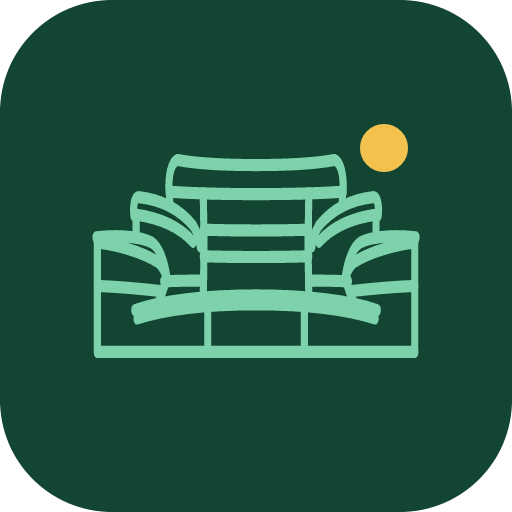
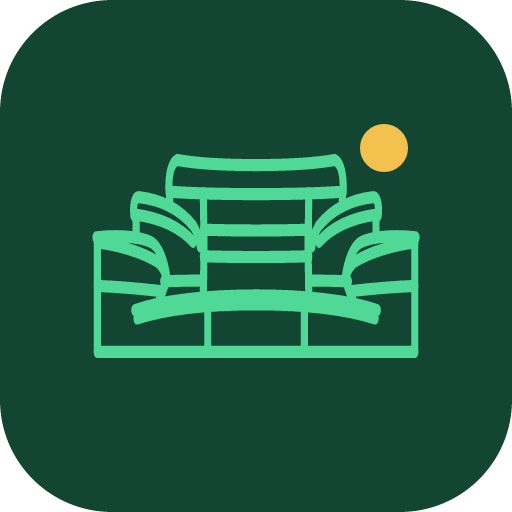
feat(core): 단축키 표시(Primer 방식 kbd, ? 단축키 창), 탭 아이콘 선 정리, 사이드바 아이콘 배경 없앰
사용자 요청: "단축키 아이콘 어떻게 하는지 github 검색", "1을 2처럼"(참고 아이콘), "아이콘 배경색을 배경색이랑 동일하게".
GitHub Primer KeybindingHint를 참고해 검색칸 /, 원문 열기 Enter, 사이드바 단축키 ?, 단축키 창을 만들고 문장형 안내를 지웠다.
탭과 사이드바 SVG는 단순화한 선을 1px로, 다크 선은 맑은 초록. 사이드바는 배경 없는 선(currentColor). 그림 본문 표시 문구, 내 공지 판단 수정 포함.
검증: vite build 통과, 1536px 다크와 라이트, 단축키 창, 16과 32px 탭 아이콘 캡처 확인.

Changed region(s): [[0.1562, 0.2812, 0.8438, 0.7188]]

diff --git a/web/src/notice-app.ts b/web/src/notice-app.ts
@@ -47,6 +47,15 @@ function applyTheme(theme: Theme) {
   else document.documentElement.dataset.theme = theme;
 }
 
+// 단축키 표시(Primer KeybindingHint 방식: 키 하나에 kbd 하나, 사방 1px 테두리). 화면 낭독기에는 aria-keyshortcuts로 알린다.
+const kbd = (...keys: string[]) => html`<span class="kbd-group" aria-hidden="true">${keys.map((k) => html`<kbd class="kbd">${k}</kbd>`)}</span>`;
+
+const SHORTCUTS: { group: string; items: [string, string[]][] }[] = [
+  { group: '목록', items: [['다음 공지', ['J']], ['이전 공지', ['K']], ['원문 열기', ['Enter']], ['상세 칸 닫기', ['Esc']]] },
+  { group: '이동', items: [['내 공지', ['1']], ['마감 임박', ['2']], ['전체', ['3']], ['검색', ['/']]] },
+  { group: '그 밖', items: [['새로고침', ['R']], ['단축키 보기', ['?']]] },
+];
+
 const icon = (name: IconName) => html`<svg class="i" aria-hidden="true"><use href="icons/sprite.svg#${name}"></use></svg>`;
 const gearIcon = html`<svg class="i" aria-hidden="true" viewBox="0 0 24 24"><circle cx="12" cy="12" r="3"/>
   <path d="M19.4 15a1.7 1.7 0 0 0 .3 1.8l.1.1a2 2 0 1 1-2.8 2.8l-.1-.1a1.7 1.7 0 0 0-1.8-.3 1.7 1.7 0 0 0-1 1.5V21a2 2 0 1 1-4 0v-.1a1.7 1.7 0 0 0-1.1-1.5 1.7 1.7 0 0 0-1.8.3l-.1.1a2 2 0 1 1-2.8-2.8l.1-.1a1.7 1.7 0 0 0 .3-1.8 1.7 1.7 0 0 0-1.5-1H3a2 2 0 1 1 0-4h.1a1.7 1.7 0 0 0 1.5-1.1 1.7 1.7 0 0 0-.3-1.8l-.1-.1a2 2 0 1 1 2.8-2.8l.1.1a1.7 1.7 0 0 0 1.8.3H9a1.7 1.7 0 0 0 1-1.5V3a2 2 0 1 1 4 0v.1a1.7 1.7 0 0 0 1 1.5 1.7 1.7 0 0 0 1.8-.3l.1-.1a2 2 0 1 1 2.8 2.8l-.1.1a1.7 1.7 0 0 0-.3 1.8V9a1.7 1.7 0 0 0 1.5 1H21a2 2 0 1 1 0 4h-.1a1.7 1.7 0 0 0-1.5 1z"/></svg>`;
@@ -57,7 +66,7 @@ export class NoticeApp extends LitElement {
     view: { state: true }, board: { state: true }, keyword: { state: true }, keywords: { state: true }, query: { state: true },
     loading: { state: true }, failed: { state: true }, selectedId: { state: true }, install: { state: true },
     installHidden: { state: true }, toast: { state: true }, isWide: { state: true }, theme: { state: true },
-    detailOpen: { state: true }, openedId: { state: true },
+    detailOpen: { state: true }, openedId: { state: true }, shortcutsOpen: { state: true },
   };
 
   notices: Notice[] = [];
@@ -82,6 +91,7 @@ export class NoticeApp extends LitElement {
   detailOpen = remember('detail') !== '0';
   // 휴대폰에서 앱 안 상세 화면으로 연 글. 뒤로 가기(history)로 닫는다.
   openedId: string | null = null;
+  shortcutsOpen = false;
   // 글별 본문(D-013). 'loading'이면 받는 중, null이면 아직 서버가 받지 않은 글.
   private bodies = new Map<string, NoticeBody | null | 'loading'>();
   private toastTimer = 0;
@@ -216,7 +226,8 @@ export class NoticeApp extends LitElement {
     const target = event.target as Element | null;
     if (event.key === 'Escape' && target instanceof HTMLInputElement) { target.blur(); return; }
     if (target?.closest('input, textarea, select') || event.metaKey || event.ctrlKey || event.altKey) return;
-    if (this.view === 'settings') return;
+    if (event.key === '?') { event.preventDefault(); this.shortcutsOpen = true; return; }
+    if (this.view === 'settings' || this.shortcutsOpen) return;
     if (event.key === 'Escape' && this.isWide && this.detailOpen) { this.setDetail(false); return; }
     // 단추나 링크에 포커스가 있으면 Enter는 그 요소의 기본 동작에 맡긴다.
     if (event.key === 'Enter' && target?.closest(INTERACTIVE)) return;
@@ -261,6 +272,9 @@ export class NoticeApp extends LitElement {
   }
 
   updated() {
+    // 단축키 창은 네이티브 dialog로 연다(포커스 가두기와 Esc 닫기를 브라우저가 맡는다).
+    const dialog = this.querySelector<HTMLDialogElement>('dialog.shortcuts');
+    if (dialog && this.shortcutsOpen && !dialog.open) dialog.showModal();
     if (this.view === 'settings') { document.title = '설정 - 성대 공지'; return; }
     const label = TABS.find((t) => t.id === this.view)!.label;
     document.title = this.notices.length ? `${label} ${this.visible().length} - 성대 공지` : '성대 공지';
@@ -279,12 +293,13 @@ export class NoticeApp extends LitElement {
     const reading = !this.isWide && !settings ? this.notices.find((n) => n.id === this.openedId) : undefined;
     const classes = [settings ? 'is-settings' : '', this.isWide && !this.detailOpen ? 'no-detail' : '', reading ? 'is-reading' : ''].join(' ');
     return html`
-      <div class="wco-bar" aria-hidden="true"><img src="favicon.svg" alt="">성대 공지</div>
+      <div class="wco-bar" aria-hidden="true"><svg class="brand-mark" aria-hidden="true"><use href="icons/sprite.svg#brand"></use></svg>성대 공지</div>
       <div class="app ${classes}">
         <aside class="sidebar" aria-label="탐색">
-          <div class="pane-head brand"><img src="icon.svg" alt="">성대 공지</div>
+          <div class="pane-head brand"><svg class="brand-mark" aria-hidden="true"><use href="icons/sprite.svg#brand"></use></svg>성대 공지</div>
           <nav class="side-group" aria-label="보기">
-            ${tabs.map((t) => this.sideItem(t.label, counts[t.id], this.view === t.id && !this.keyword, () => { this.keyword = null; this.setView(t.id); }))}
+            ${tabs.map((t) => this.sideItem(t.label, counts[t.id], this.view === t.id && !this.keyword, () => { this.keyword = null; this.setView(t.id); },
+              String(TABS.findIndex((x) => x.id === t.id) + 1)))}
           </nav>
           <p class="side-head">관심 키워드</p>
           <div class="side-group">
@@ -299,6 +314,8 @@ export class NoticeApp extends LitElement {
           </div>
           <div class="side-foot">
             ${this.install ? html`<button type="button" class="side-item" @click=${this.runInstall}>앱으로 설치하기</button>` : nothing}
+            <button type="button" class="side-item kbd-only" aria-keyshortcuts="?" @click=${() => { this.shortcutsOpen = true; }}>
+              <span>단축키</span>${kbd('?')}</button>
             ${this.sideItem('설정', null, settings, () => this.setView('settings'))}
           </div>
         </aside>
@@ -314,11 +331,12 @@ export class NoticeApp extends LitElement {
             </div>
             ${settings ? nothing : html`
               <label class="search wide-only">${icon('search')}
-                <input type="search" placeholder="공지 찾기" autocomplete="off" aria-label="공지 검색" .value=${this.query}
-                  @input=${(e: Event) => { this.query = (e.target as HTMLInputElement).value; }}></label>
-              ${this.detailOpen ? nothing : html`<button type="button" class="icon-button wide-only" aria-label="상세 칸 열기"
+                <input type="search" placeholder="공지 찾기" autocomplete="off" aria-label="공지 검색" aria-keyshortcuts="/" .value=${this.query}
+                  @input=${(e: Event) => { this.query = (e.target as HTMLInputElement).value; }}>${this.query ? nothing : kbd('/')}</label>
+              ${this.detailOpen ? nothing : html`<button type="button" class="icon-button wide-only" aria-label="상세 칸 열기" title="상세 칸 열기"
                 @click=${() => this.setDetail(true)}>${icon('panel')}</button>`}
-              <button type="button" class="icon-button" aria-label="새로고침" ?disabled=${this.loading} @click=${this.refresh}>${icon('refresh')}</button>`}
+              <button type="button" class="icon-button" aria-label="새로고침" title="새로고침 (R)" aria-keyshortcuts="r"
+                ?disabled=${this.loading} @click=${this.refresh}>${icon('refresh')}</button>`}
             ${settings ? nothing : html`<button type="button" class="icon-button narrow-only" aria-label="설정"
               @click=${() => this.setView('settings')}>${gearIcon}</button>`}
           </header>
@@ -342,10 +360,11 @@ export class NoticeApp extends LitElement {
 
         <aside class="detail-pane" aria-label="공지 상세">
           <div class="pane-head detail-head">
-            <button type="button" class="icon-button" aria-label="상세 칸 닫기" title="상세 칸 닫기 (Esc)" @click=${() => this.setDetail(false)}>${icon('close')}</button>
+            <button type="button" class="icon-button" aria-label="상세 칸 닫기" title="상세 칸 닫기 (Esc)" aria-keyshortcuts="Escape"
+              @click=${() => this.setDetail(false)}>${icon('close')}</button>
             ${selected ? html`<div class="detail-actions">
               <button type="button" class="ghost-button" @click=${() => this.copyLink(selected)}>링크 복사하기</button>
-              <a class="solid-button" href=${safeUrl(selected.url)} target="_blank" rel="noopener">원문 열기</a></div>` : nothing}
+              <a class="solid-button" href=${safeUrl(selected.url)} target="_blank" rel="noopener" aria-keyshortcuts="Enter">원문 열기${kbd('Enter')}</a></div>` : nothing}
           </div>
           ${selected ? this.detail(selected) : nothing}
         </aside>
@@ -363,6 +382,7 @@ export class NoticeApp extends LitElement {
           @click=${() => { this.keyword = null; this.setView(t.id); }}>${icon(t.icon)}<span>${t.label}</span></button>`)}
       </nav>
       <div class="toast" role="status" ?hidden=${!this.toast}>${this.toast}</div>
+      ${this.shortcutsOpen ? this.shortcutsDialog() : nothing}
     `;
   }
 
@@ -373,7 +393,8 @@ export class NoticeApp extends LitElement {
     const images = (loaded.images ?? []).map(safeUrl).filter((url) => url !== '#');
     if (!paragraphs.length && !images.length) return html`<p class="detail-note">본문에 글자가 없어요. 원문 열기로 볼 수 있어요</p>`;
     return html`<section class="detail-section body-text" aria-label="본문">
-      <h3>본문</h3>
+      <h3>${loaded.body_from_image ? '본문 (그림에서 읽은 글)' : '본문'}</h3>
+      ${loaded.body_from_image && paragraphs.length ? html`<p class="detail-note first">그림 속 글자를 기계가 옮겨 적어서 틀린 곳이 있을 수 있어요. 아래 그림과 원문이 정확해요</p>` : nothing}
       ${paragraphs.map((para) => html`<p>${para}</p>`)}
       ${images.map((src, index) => html`<img src=${src} alt="본문 그림 ${index + 1}" loading="lazy" referrerpolicy="no-referrer">`)}
     </section>`;
@@ -393,8 +414,25 @@ export class NoticeApp extends LitElement {
       </div>`;
   }
 
-  private sideItem(label: string, count: number | null, active: boolean, onClick: () => void) {
-    return html`<button type="button" class="side-item" aria-current=${active ? 'page' : 'false'} @click=${onClick}>
+  private shortcutsDialog() {
+    const close = () => { this.shortcutsOpen = false; };
+    return html`<dialog class="shortcuts" aria-labelledby="shortcuts-title" @close=${close}
+      @click=${(e: MouseEvent) => { if (e.target === e.currentTarget) (e.currentTarget as HTMLDialogElement).close(); }}>
+      <div class="dialog-head">
+        <h2 id="shortcuts-title">단축키</h2>
+        <button type="button" class="icon-button" aria-label="닫기" @click=${(e: Event) => (e.currentTarget as HTMLElement).closest('dialog')?.close()}>${icon('close')}</button>
+      </div>
+      ${SHORTCUTS.map((section) => html`<section class="shortcut-group">
+        <h3>${section.group}</h3>
+        <dl>${section.items.map(([label, keys]) => html`<div><dt>${label}</dt><dd>${kbd(...keys)}</dd></div>`)}</dl>
+      </section>`)}
+      <p class="dialog-foot">위아래 화살표로도 공지를 옮길 수 있어요</p>
+    </dialog>`;
+  }
+
+  private sideItem(label: string, count: number | null, active: boolean, onClick: () => void, shortcut?: string) {
+    return html`<button type="button" class="side-item" aria-current=${active ? 'page' : 'false'} @click=${onClick}
+      aria-keyshortcuts=${shortcut ?? nothing} title=${shortcut ? `${label} (${shortcut})` : nothing}>
       <span>${label}</span>${count === null ? nothing : html`<span class="count">${count}</span>`}</button>`;
   }
 
@@ -514,7 +552,6 @@ export class NoticeApp extends LitElement {
           <ul class="attachments">${loaded.attachments.map((file) => html`<li>
             <a href=${safeUrl(file.url)} target="_blank" rel="noopener">${icon('clip')}<span>${file.name}</span></a></li>`)}</ul></section>` : nothing}
         ${body === 'loading' ? html`<p class="detail-note">본문을 불러오는 중</p>` : this.bodyView(loaded)}
-        <p class="hint wide-only">j, k로 옮기고 Enter로 원문을 열어요. Esc로 이 칸을 닫아요</p>
       </div>`;
   }
 }

diff --git a/web/src/styles.css b/web/src/styles.css
@@ -160,7 +160,35 @@
   .attachments a span { overflow: hidden; text-overflow: ellipsis; white-space: nowrap; }
   .attachments .i { width: 18px; height: 18px; color: var(--text-3); }
   .detail-note { margin-top: 20px; font-size: 13px; line-height: 19px; color: var(--text-3); }
-  .hint { margin-top: 16px; font-size: 12px; color: var(--text-3); }
+  .detail-note.first { margin: 0 0 10px; }
+
+  /* 단축키 표시(Primer KeybindingHint 참고): 키 하나에 kbd 하나, 사방 같은 1px 테두리, 작은 흐린 글자 */
+  .kbd-group { display: inline-flex; gap: 4px; }
+  .kbd {
+    display: inline-flex; align-items: center; justify-content: center;
+    min-width: 20px; height: 20px; padding: 0 5px;
+    border: 1px solid var(--line); border-radius: 4px; background: none;
+    font: 500 11px/1 var(--font); letter-spacing: 0; color: var(--text-3);
+  }
+  .solid-button .kbd-group { margin-left: 8px; }
+  .solid-button .kbd { border-color: color-mix(in oklch, var(--on-accent) 40%, transparent); color: var(--on-accent); }
+  .search .kbd-group { margin-left: auto; }
+  /* 마우스와 키보드가 있는 기기에서만 보인다(휴대폰에는 단축키가 없다) */
+  @media not ((hover: hover) and (pointer: fine)) { .kbd-group, .kbd-only { display: none !important; } }
+
+  dialog.shortcuts {
+    width: min(440px, calc(100vw - 32px)); padding: 0 24px 20px;
+    border: 1px solid var(--line); border-radius: var(--r-lg); background: var(--surface); color: var(--text);
+    box-shadow: var(--shadow-pop);
+  }
+  dialog.shortcuts::backdrop { background: oklch(0.15 0.01 var(--h) / 0.4); }
+  .dialog-head { display: flex; align-items: center; justify-content: space-between; height: 56px; margin-right: -8px; }
+  .dialog-head h2 { font-size: 17px; font-weight: 700; }
+  .shortcut-group h3 { margin: 12px 0 4px; font-size: 12px; line-height: 16px; font-weight: 600; color: var(--text-3); }
+  .shortcut-group dl { margin: 0; }
+  .shortcut-group div { display: flex; align-items: center; justify-content: space-between; min-height: 36px; border-top: 1px solid var(--line); font-size: 14px; }
+  .shortcut-group dd { margin: 0; }
+  .dialog-foot { margin-top: 12px; font-size: 12px; color: var(--text-3); }
 }
 
 /* 휴대폰 (One UI, 720px 미만). 왼쪽 시작선은 16px(머리, 검색, 칩, 묶음)과 32px(행 글자) 둘뿐이다. */
@@ -264,7 +292,7 @@
       border-bottom: 1px solid var(--line);
     }
     .brand { margin: 0 -12px 12px; padding: 0 24px; font-size: 16px; font-weight: 700; letter-spacing: -0.02em; }
-    .brand img { width: 24px; height: 24px; }
+    .brand .brand-mark { width: 28px; height: 28px; color: var(--accent); }
     .topbar { position: sticky; top: 0; z-index: 2; padding: 0 24px; }
     .topbar h1 { font-size: 20px; line-height: 28px; }
     .topbar .updated { font-size: 12px; line-height: 16px; }
@@ -382,7 +410,7 @@
       background: var(--bg); font-size: 13px; font-weight: 600; color: var(--text-2);
       app-region: drag; -webkit-app-region: drag;
     }
-    .wco-bar img { width: 16px; height: 16px; }
+    .wco-bar .brand-mark { width: 18px; height: 18px; color: var(--accent); }
     body { padding-top: env(titlebar-area-height, 0px); }
   }
 }

diff --git a/web/src/data.ts b/web/src/data.ts
@@ -36,6 +36,8 @@ export interface NoticeBody {
   attachments: { name: string; url: string }[];
   // 본문 영역 안 그림 주소(본문이 그림으로만 올라온 글이 있다). 없을 수 있다.
   images?: string[];
+  // 그림에서 기계가 읽어 옮긴 본문인지(D-014, D-015). 틀릴 수 있어 화면에 밝힌다.
+  body_from_image?: boolean;
   fetched_at: string | null;
 }
 

diff --git a/scripts/build_icons.py b/scripts/build_icons.py
@@ -55,13 +55,13 @@ def tile(name: str, size: int = 128, radius: int = 28, scale: float = 3.3) -> st
     )
 
 
-# 다크 모드에서도 바탕과 건물 안은 진녹색 그대로 두고 선 색만 민트로 바꾼다(사용자 요청: "바탕도 진녹색, 도서관 아이콘 안도 진녹색, 선만 다른 색").
+# 다크 모드: 바탕과 건물 안은 진녹색 그대로, 선만 맑은 초록(사용자가 보여 준 참고 아이콘에 맞춤). 바탕을 더 어둡게 하면 어두운 탭 줄에서 타일이 사라진다.
 # SVG는 안에 미디어 쿼리를 넣어 스스로 바뀌고, PNG는 미디어 쿼리가 없으므로 *-dark.png를 따로 만들어
 # index.html의 <link media="(prefers-color-scheme: dark)">로 골라 쓴다.
 DARK_TILE = BRAND
 # PNG에서 원본 선을 그릴 굵기(원본 그룹 좌표 단위). 128용은 128px에서 약 2.4px, 32용은 32px에서 약 1.4px가 되게 맞췄다.
 PNG_STROKE = {128: 16, 32: 28}
-DARK_LINE = "#7ed2ab"
+DARK_LINE = "#4fd896"
 DARK_STYLE = (
     "<style>@media (prefers-color-scheme: dark){"
     f".tile{{fill:{DARK_TILE}}}.art{{stroke:{DARK_LINE}}}.ring{{stroke:{DARK_TILE}}}}}</style>"
@@ -74,14 +74,18 @@ def library_art(size: int) -> str:
     return re.search(r"<g .*</g>", text, re.S).group()
 
 
-def app_icon(size: int, full_bleed: bool, variant: str = "auto") -> str:
+def app_icon(size: int, full_bleed: bool, variant: str = "auto", small: bool = False) -> str:
     """아캠 플러스 지붕 선 위에, 새 공지를 뜻하는 노랗게 물든 은행잎 점을 얹는다.
 
     full_bleed는 안드로이드 maskable(가장자리가 잘림)용이고, 아니면 웨일 아이콘처럼 둥근 타일이다.
     점은 maskable 안전 영역(가운데 반지름 40%) 안에 둔다.
     """
-    base = 128 if size >= 96 else 32
+    # small: 탭 아이콘(16px)과 사이드바(24px)처럼 작게 그려지는 SVG. 단순화한 선을 1px로 가늘게 그려 선끼리 뭉치지 않게 한다
+    # (사용자 요청 "1을 2처럼": 굵은 선이 뭉쳐 건물이 허옇게 채워져 보였다).
+    base = 32 if small or size < 96 else 128
     art = library_art(base)
+    if small:
+        art = re.sub(r'stroke-width="[\d.]+"', 'stroke-width="1"', art)
     background = (
         f'<rect width="128" height="128" fill="{BRAND}"/>'
         if full_bleed
@@ -109,10 +113,20 @@ def app_icon(size: int, full_bleed: bool, variant: str = "auto") -> str:
     )
 
 
+def brand_symbol() -> str:
+    """배경 없는 아캠 플러스 선(currentColor). 앱 안 사이드바처럼 화면 바탕 위에 그릴 때 쓴다(웨일 popup-inline.svg와 같은 방식).
+    사용자 요청: "아이콘 배경색을 배경색이랑 동일하게"."""
+    art = library_art(32)
+    art = re.sub(r'stroke="#ffffff"', 'stroke="currentColor"', art)
+    art = re.sub(r'stroke-width="[\d.]+"', 'stroke-width="1.4"', art)
+    dot = f'<circle cx="96" cy="37" r="7.5" fill="{GINKGO_YELLOW}"/>'
+    return f'<symbol id="brand" viewBox="0 0 128 128">{art}{dot}</symbol>'
+
+
 def sprite() -> str:
     stroke = STROKE.format(color="currentColor", width=1.75)
     symbols = "".join(f'<symbol id="{name}" viewBox="0 0 24 24" {stroke}>{body}</symbol>' for name, body in ICONS.items())
-    return f'<svg xmlns="http://www.w3.org/2000/svg">{symbols}</svg>\n'
+    return f'<svg xmlns="http://www.w3.org/2000/svg">{symbols}{brand_symbol()}</svg>\n'
 
 
 def png(svg: str, path: Path, size: int) -> None:
@@ -121,8 +135,8 @@ def png(svg: str, path: Path, size: int) -> None:
 
 def main() -> None:
     (WEB / "icons" / "notify").mkdir(parents=True, exist_ok=True)
-    (WEB / "favicon.svg").write_text(app_icon(32, full_bleed=False) + "\n", encoding="utf-8")
-    (WEB / "icon.svg").write_text(app_icon(128, full_bleed=False) + "\n", encoding="utf-8")
+    (WEB / "favicon.svg").write_text(app_icon(32, full_bleed=False, small=True) + "\n", encoding="utf-8")
+    (WEB / "icon.svg").write_text(app_icon(128, full_bleed=False, small=True) + "\n", encoding="utf-8")
     for suffix, variant in (("", "light"), ("-dark", "dark")):
         for size in (48, 192, 512):
             png(app_icon(size, False, variant), WEB / f"icon-{size}{suffix}.png", size)

diff --git a/docs/design/ux-rules.md b/docs/design/ux-rules.md
@@ -93,7 +93,11 @@
 
 - 터치 영역 44px 이상(행 전체, 탭, 칩). 아이콘만 있는 단추에는 `aria-label`.
 - 포커스는 `:focus-visible`에 2px `--accent` 외곽선. `outline: none`만 쓰지 않는다.
-- 키보드(데스크톱): `/` 검색, `j`/`k` 또는 위아래 화살표로 행 이동, `Enter` 원문 열기, `1` `2` `3` 탭 전환, `r` 새로고침.
+- 키보드(데스크톱): `/` 검색, `j`/`k` 또는 위아래 화살표로 행 이동, `Enter` 원문 열기, `Esc` 상세 칸 닫기, `1` `2` `3` 탭 전환, `r` 새로고침, `?` 단축키 창.
+- 단축키 표시(GitHub Primer `KeybindingHint` 참고): 키 하나에 `<kbd>` 하나, 사방 같은 1px 테두리, 11px 흐린 글자, 최소 폭 20px.
+  쓰는 자리: 검색칸 오른쪽 `/`, 주 단추 안 `Enter`(단추 색에 맞춘 테두리), 사이드바 "단축키 ?" 줄, `?` 단축키 창(목록, 이동, 그 밖).
+  나머지 단추는 `title`("새로고침 (R)")과 `aria-keyshortcuts`로만 알린다. 키 이름은 글자로 쓴다(Enter, Esc). ⏎, ↑ 같은 기호는 쓰지 않는다(웨일 DESIGN 1절).
+  마우스와 키보드가 있는 기기(`hover: hover`, `pointer: fine`)에서만 보이고 휴대폰에서는 숨긴다. 문장형 안내("j, k로 옮기고...")는 쓰지 않는다.
 - 학교 게시판에서 온 글자는 Lit 템플릿으로만 넣는다(`innerHTML` 금지, 자동 이스케이프).
 - 고른 탭과 게시판은 `localStorage`에 기억하되, 읽기와 쓰기는 `try`로 감싸고 실패해도 화면은 돈다.
 

diff --git a/docs/design/references.md b/docs/design/references.md
@@ -15,6 +15,7 @@
 | [penpot/penpot](https://github.com/penpot/penpot) | 오픈소스 디자인 도구 | 없음 | 화면 하나짜리 개인 도구에 시안 도구는 과함 |
 | topics website-design, webdesign, modern-web | 템플릿 모음 | 없음 | 포트폴리오, 식당 템플릿 위주 |
 | WhaleExtentions `docs/DESIGN.md`, 아캠 플러스 아이콘 | 사용자 웨일 확장의 디자인 원칙 | 금지 목록, OKLCH와 `light-dark()` 토큰, 움직임 기본 끔, 아이콘 생성 방식, 아캠 플러스 아이콘 원본 | 웨일 강제 다크 대응(night-guard)은 PWA에 필요 없음 |
+| [primer/react KeybindingHint](https://github.com/primer/react/tree/main/packages/react/src/KeybindingHint) | GitHub 디자인 시스템의 단축키 표시 | kbd 모양(사방 1px, 작은 흐린 글자), 단추 안 변형, 화면 낭독용 이름 분리, `?` 단축키 창 | 키 기호(⏎, ⌘)는 웨일 규칙 때문에 글자로 |
 | [web.dev Learn PWA: App design](https://web.dev/learn/pwa/app-design) | 설치 앱 설계 지침 | display-mode, 안전 영역, overscroll, user-select, theme-color | |
 
 아캠 플러스 아이콘 원본은 삼성학술정보관 사진([Srobidx, CC BY-SA 4.0](https://commons.wikimedia.org/wiki/File:Samsung_Library-Front.jpg))에서 윤곽을 딴 것이다.

diff --git a/docs/DECISIONS.md b/docs/DECISIONS.md
@@ -136,3 +136,5 @@
 - 알림: 새 공지는 모두 ntfy로 보낸다. 기준, 관심 키워드, Gemini 해당은 소리 있게(priority 원래대로), 나머지는 조용히(low, 소리와 진동 없음).
   "내 공지" 탭은 기준, 관심 키워드, Gemini 해당과 확인 필요만 모은다(알림을 보냈다는 이유로 넣지 않는다).
 - 예시 규칙 "학과 공지는 모두 (조용히)"는 이 설정으로 대체해 지운다.
+- 2026-11-02 실제 확인: 학과 포스터를 RapidOCR로 읽으니 제목 줄은 맞지만 나머지는 깨진 글자가 많았다("경령시원" 등).
+  그래서 OCR 글자는 화면 본문으로 보여 주지 않고 검색, 관심 키워드, Gemini 참고 자료로만 쓴다. 화면 본문은 Gemini가 옮겨 적은 글(키가 있을 때)이고, 없으면 그림만 보인다.
